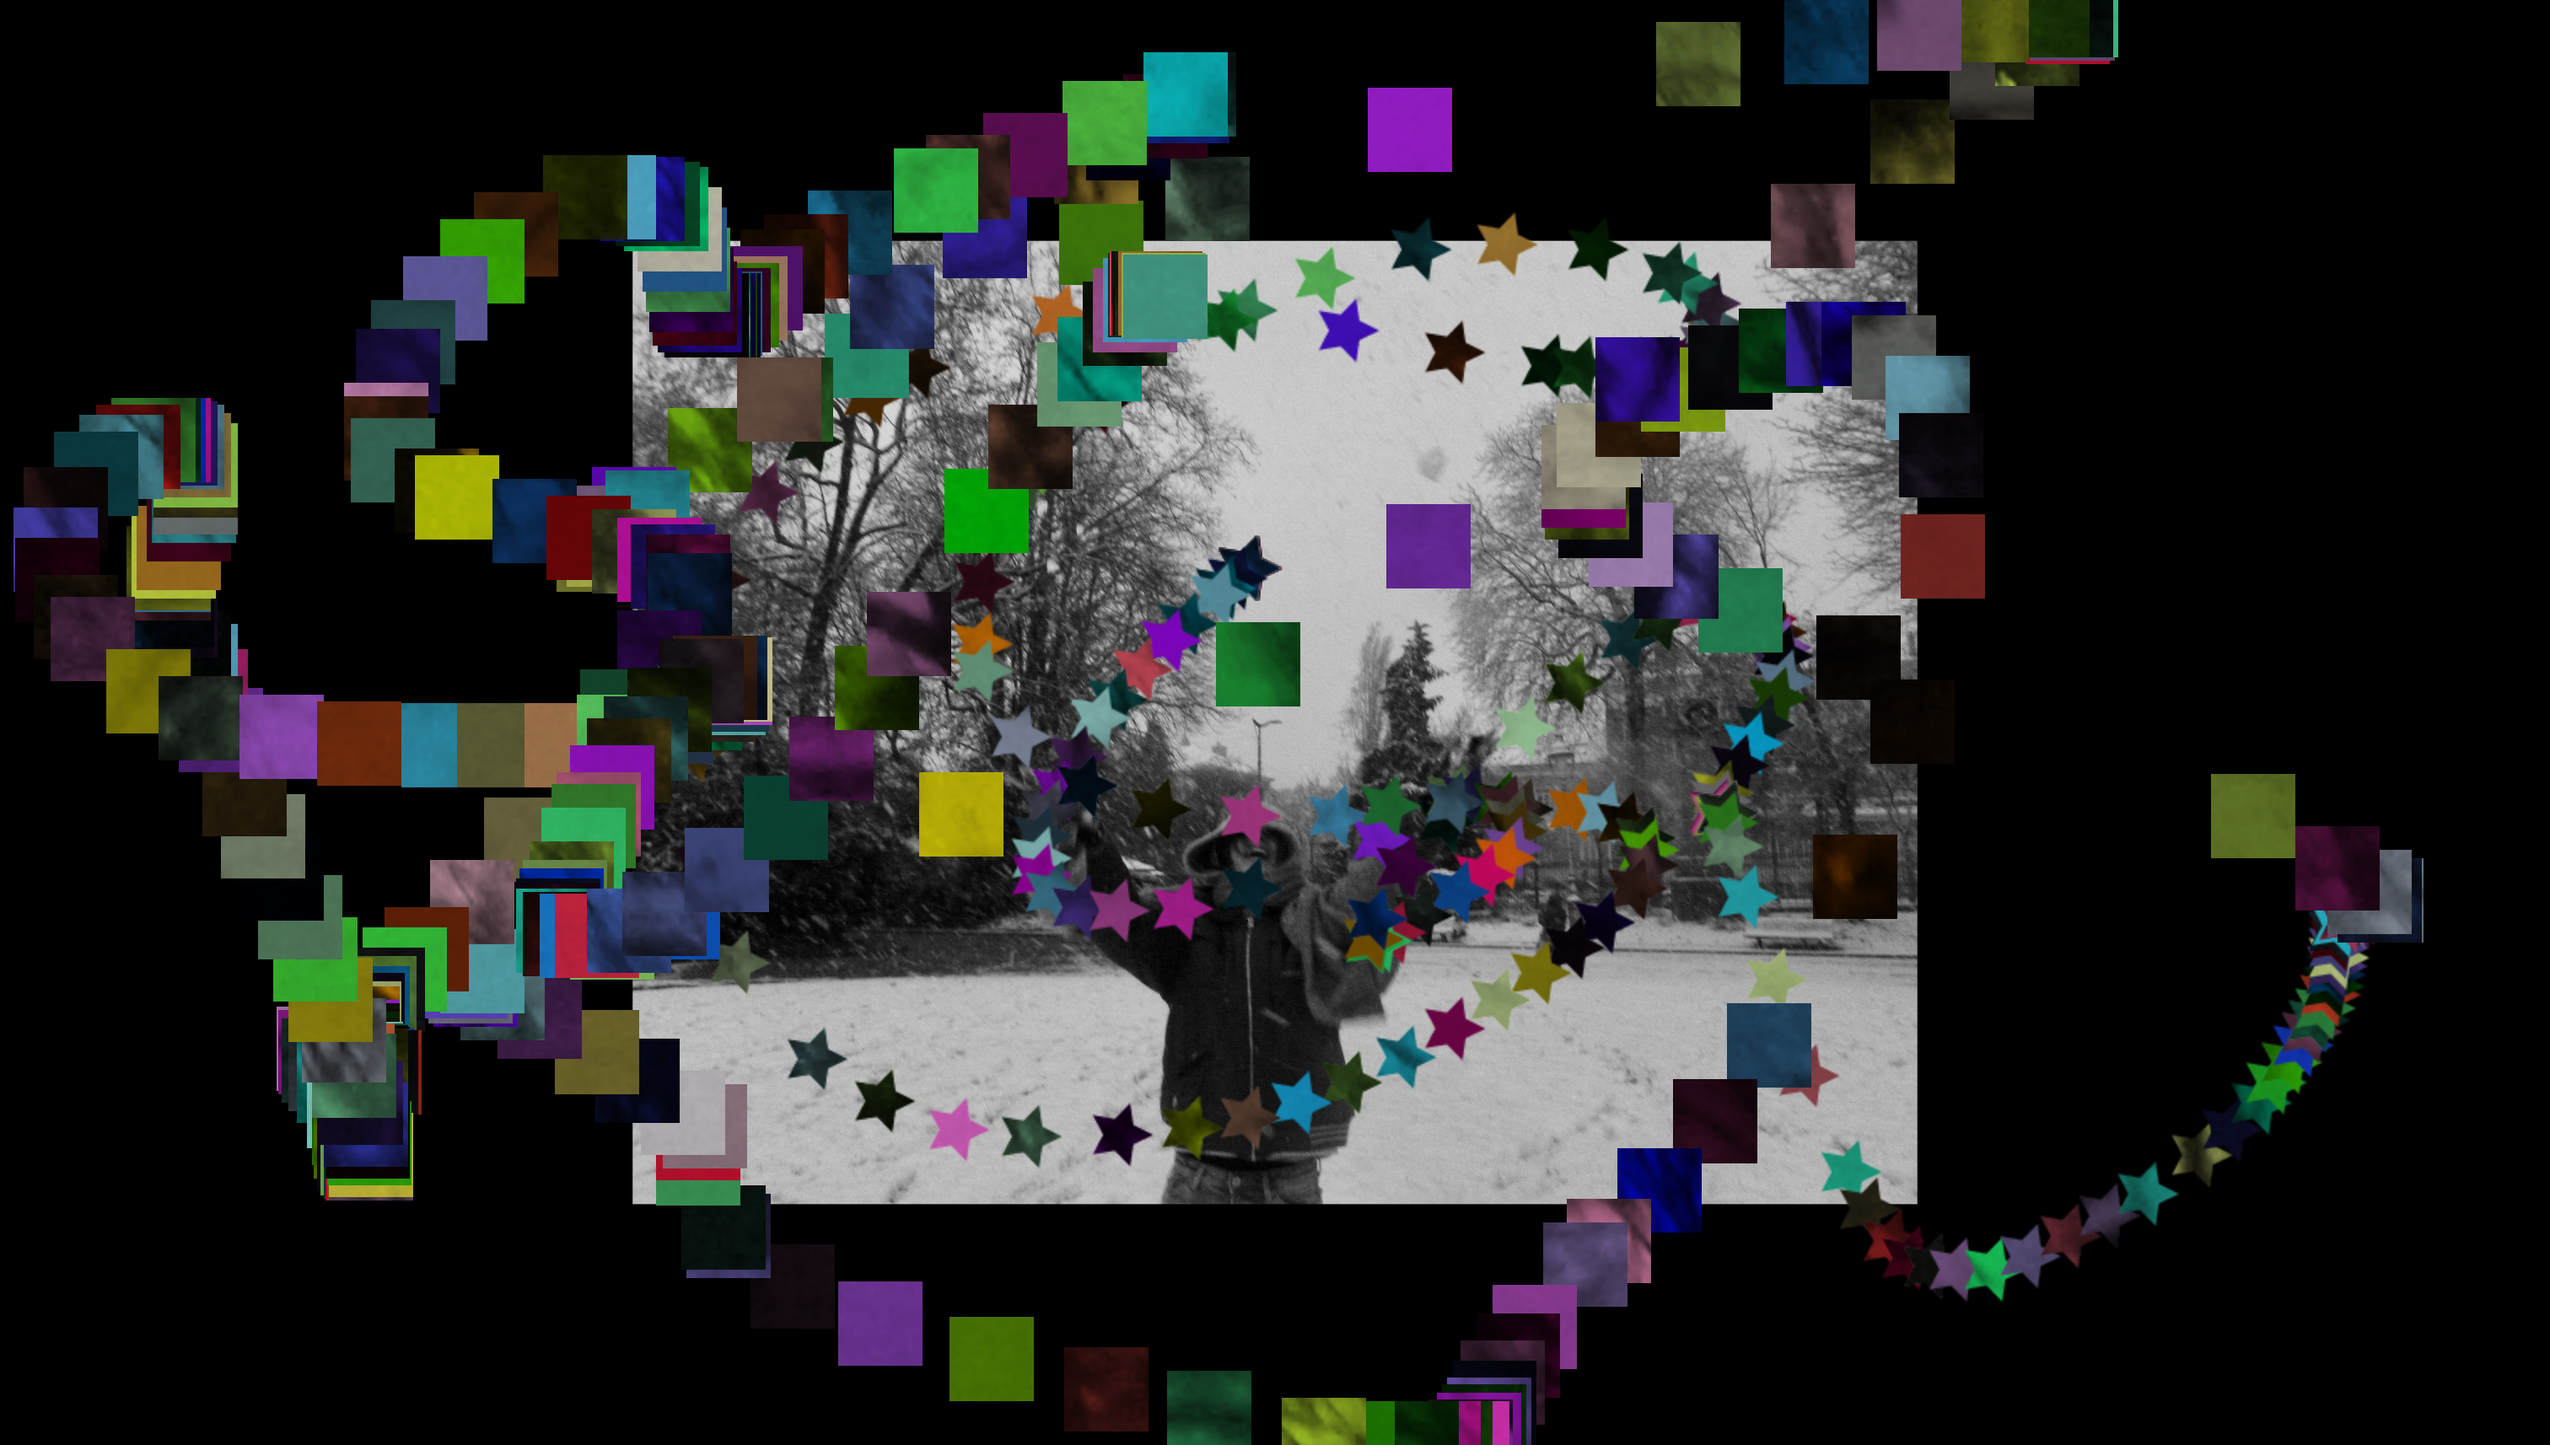
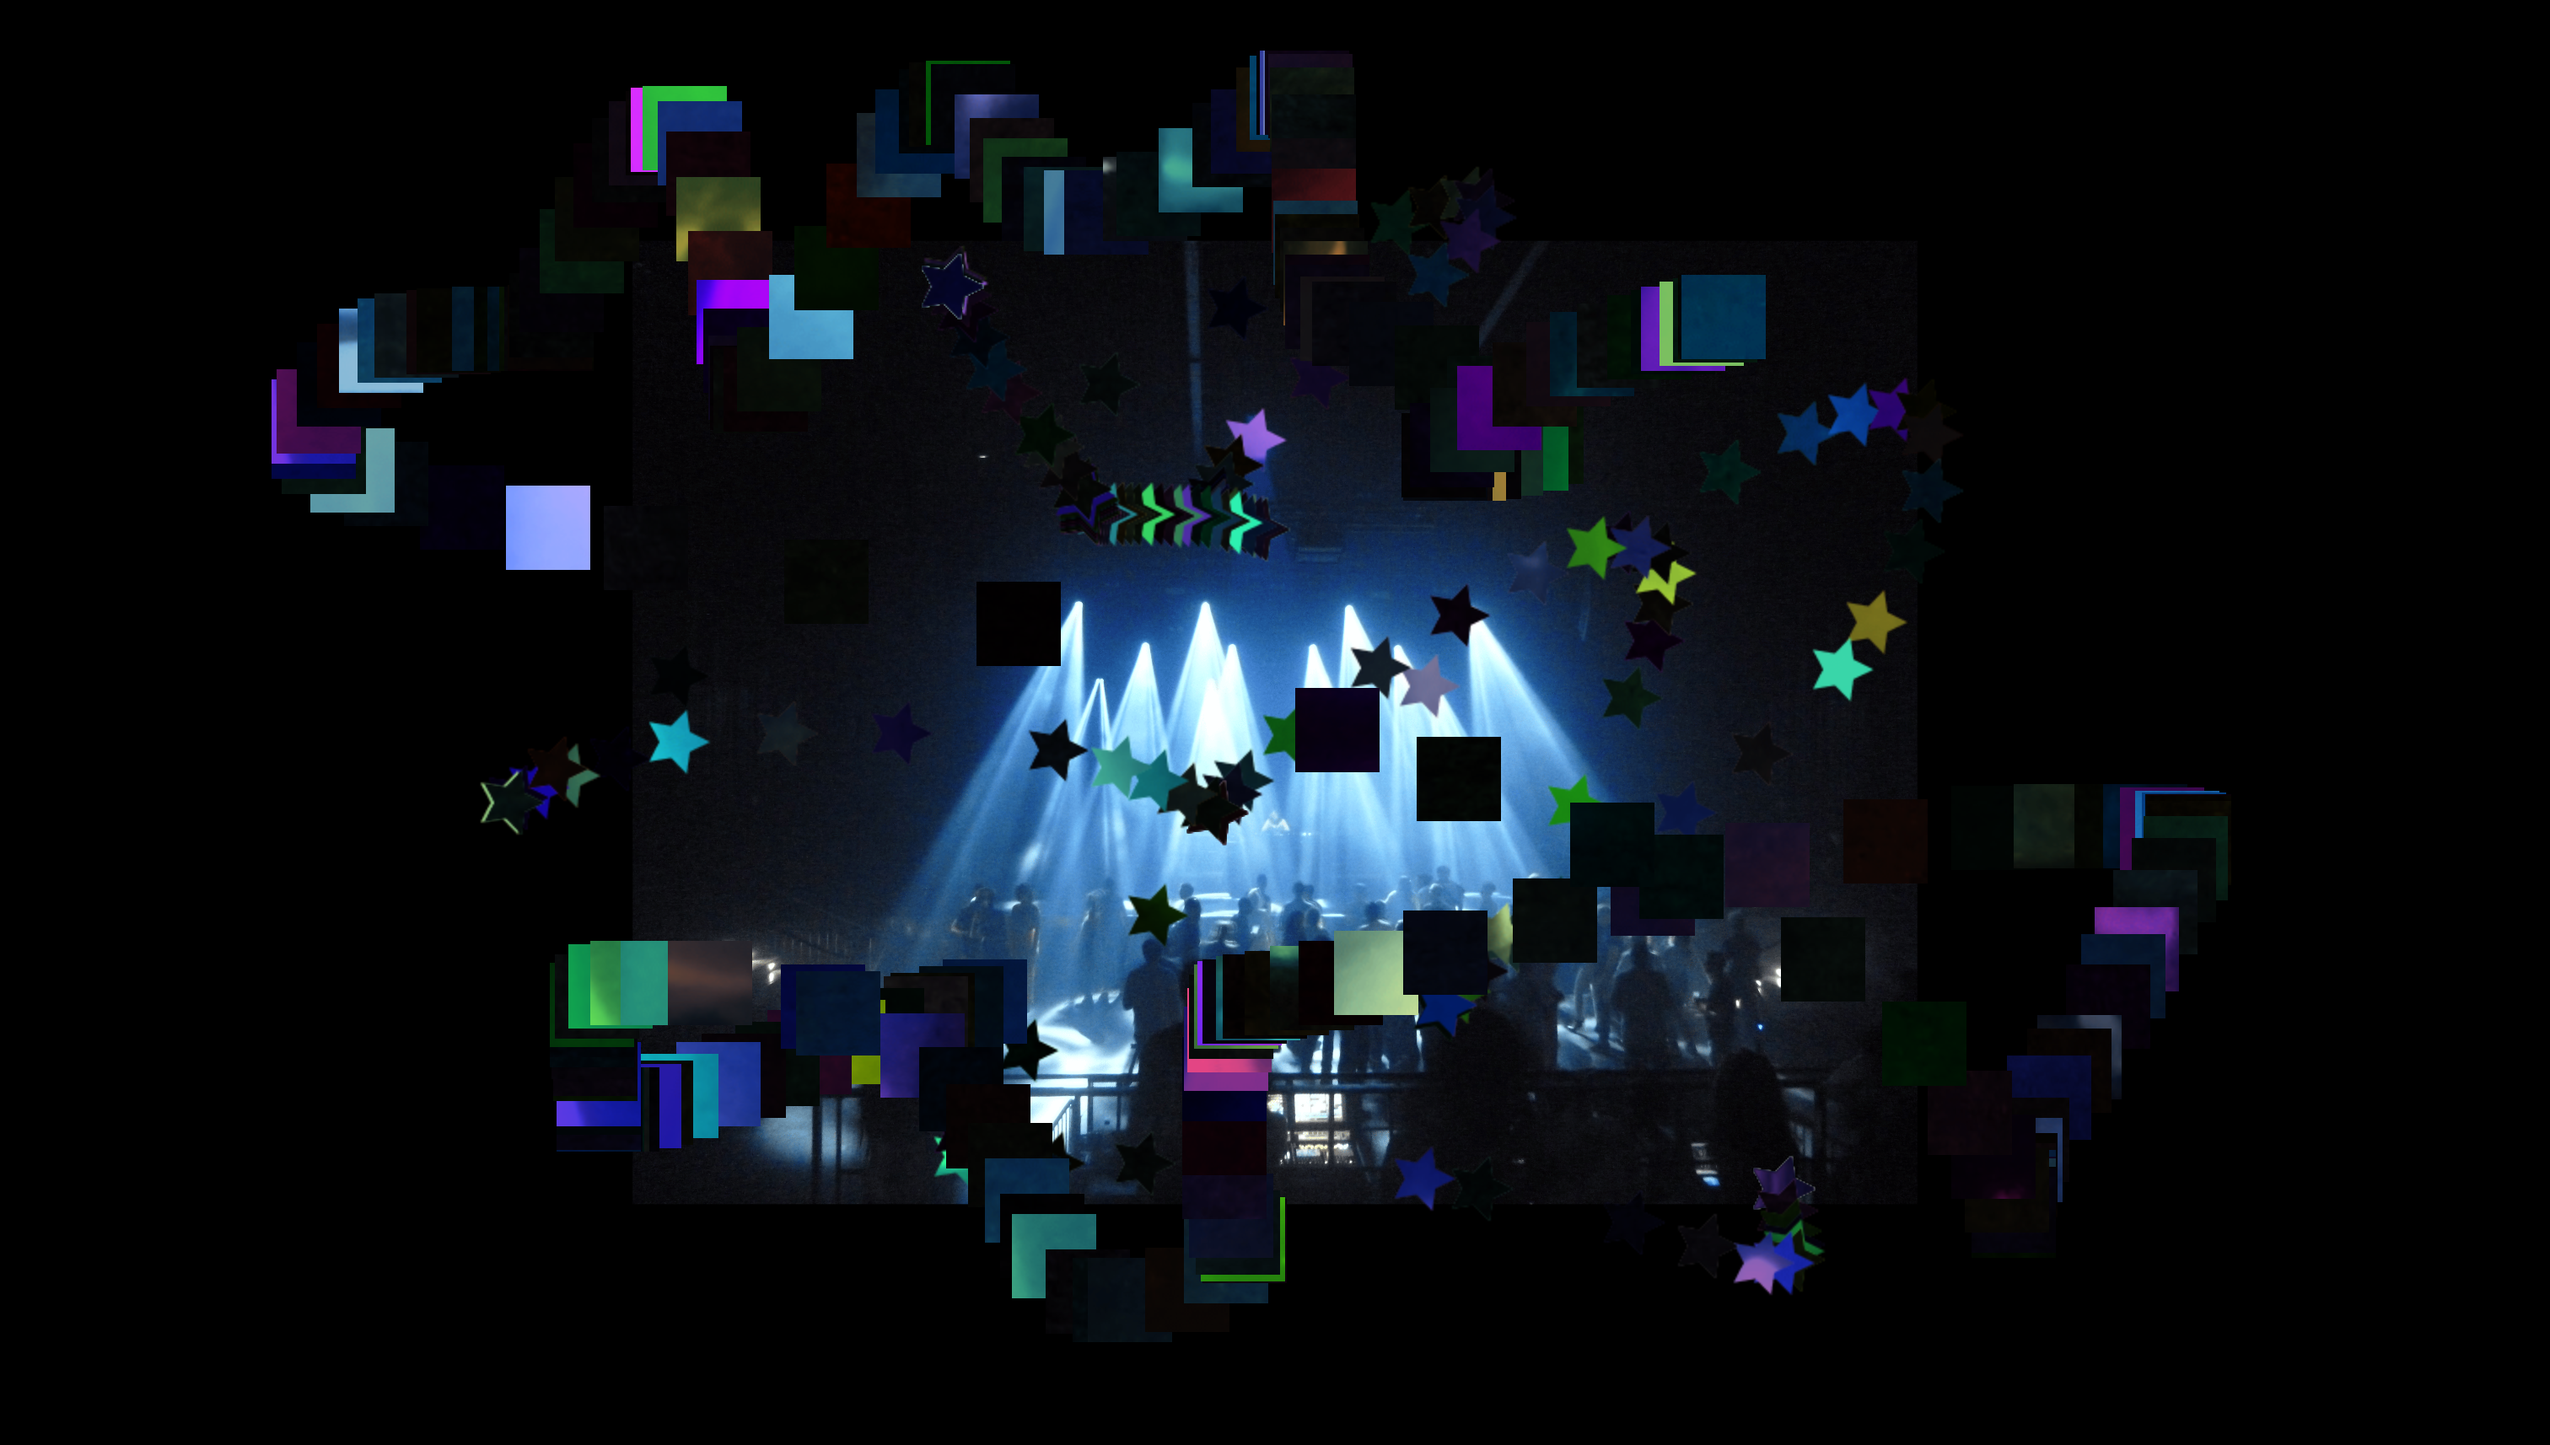
newest version with new shapes

diff --git a/procedure.js b/procedure.js
@@ -2,13 +2,16 @@ let photos = [];
 let currentImage;
 let drawing = false;
 let currentFilter = null;
-let currentDecoupe = 'square';                                              
+let currentDecoupe = 'star';         
+let currentColor = 'random'                                     ;
+
 
 function preload() {
-    for (let i = 1; i < 25; i++) {
+    for (let i = 2; i < 13; i++) {
         photos[i] = loadImage('img/photo' + i + '.png');
     }
 }
+
 
 function setup() {
     let cnv = createCanvas(windowWidth, windowHeight);
@@ -26,6 +29,7 @@ function setup() {
     instructions.style("background", "black");
     instructions.style("padding", "10px");
     instructions.style("width", "100%");
+    instructions.style("font-family", "Arial");
     instructions.position(0, 0);
 }
 
@@ -37,31 +41,43 @@ function draw() {
         let randomX = random(currentImage.width - decoupeSize);
         let randomY = random(currentImage.height - decoupeSize);
 
-
         let decoupe = currentImage.get(randomX, randomY, decoupeSize, decoupeSize);
+
 
         if (currentDecoupe) {
             if (currentDecoupe === 'star') {
                 let maskedDecoupe = createStarMask(decoupe);
-                tint(random(255), random(255), random(255));
+                if (currentColor === 'white') {
+                    tint(255);
+                } else if (currentColor === 'black') {
+                    tint(0);
+                } else if (currentColor === 'random') {
+                    tint(random(255), random(255), random(255));
+                }
                 image(maskedDecoupe, mouseX, mouseY);
-                noTint();
-            } else if (currentDecoupe === 'square') {
-                tint(random(255), random(255), random(255));
-                image(decoupe, mouseX, mouseY);
-                noTint();
+            } else if (currentDecoupe === 'heart') {
+                let maskedDecoupe = createHeartMask(decoupe);
+                if (currentColor === 'white') {
+                    tint(255, 255, 255);
+                } else if (currentColor === 'black') {
+                    tint(0);
+                } else if (currentColor === 'random') {
+                    tint(random(255), random(255), random(255));
+                }
+                image(maskedDecoupe, mouseX, mouseY);
             }
         }
-
+        noTint();
         
     }
 }
+
 
 function createStarMask(img) {
     let pg = createGraphics(img.width, img.height);
     pg.clear();
 
-    let starSize = img.width * 0.75; 
+    let starSize = img.width * 0.25; 
     let cx = img.width / 2;
     let cy = img.height / 2;
     let radius1 = starSize / 2; 
@@ -83,19 +99,45 @@ function createStarMask(img) {
     return img;
 }
 
+
+function createHeartMask(img) {
+    let pg = createGraphics(img.width, img.height);
+    pg.clear();
+
+    let size = img.width * 0.5; 
+    let cx = img.width / 2;
+    let cy = img.height / 2;
+    let topOffset = size * 0.1; 
+
+    pg.fill(255); // White mask
+    pg.noStroke();
+
+    pg.beginShape();
+    
+    // Left curve
+    pg.vertex(cx, cy + size * 0.3); 
+    pg.bezierVertex(cx - size * 0.5, cy - topOffset, cx - size * 0.3, cy - size * 0.6, cx, cy - size * 0.3);
+    
+    // Right curve
+    pg.bezierVertex(cx + size * 0.3, cy - size * 0.6, cx + size * 0.5, cy - topOffset, cx, cy + size * 0.3);
+    
+    pg.endShape(CLOSE);
+
+    img.mask(pg);
+    return img;
+}
+
+
 function mousePressed(event) {
     // Check if the click happened inside a button
     if (event.target.closest("button")) {
-        return; // Do nothing if a button was clicked
+        return; 
     }
 
     // Otherwise, proceed with showing a random image
     background(0);
     let img = random(photos);
     currentImage = img;
-
-
-
 
     let imgW = currentImage.width;
     let imgH = currentImage.height;
@@ -107,6 +149,7 @@ function mousePressed(event) {
     image(img, width / 2, height / 2, newWidth, newHeight);
     noTint();
 }
+
 
 function keyPressed() {
     if (key === 's') {

diff --git a/style.css b/style.css
@@ -25,12 +25,6 @@ body {
 
 }
 
-/* .filters:active {
-  background-color: #3e8e41;
-  box-shadow: 0 5px #666;
-  transform: translateY(4px);
-} */
-
 
 .filters:hover {
   background: red; /* Changes color when hovered */
@@ -82,6 +76,56 @@ body {
   height: 100px;
   right: 40px;
 }
+
+
+
+.colors {
+  position: fixed;
+  right: 20px;
+  top: 50px;
+  z-index: 1000; /* Makes sure they are above everything */
+  
+  width: 140px;
+  height: 140px;
+  
+  color: black;
+  background: white;
+  font-size: 14px;
+  font-weight: bold;
+  cursor: pointer;
+  text-align: center;
+
+  
+
+}
+
+.colors:hover {
+  background: red; /* Changes color when hovered */
+  transform: scale(1.1); /* Slightly increases size */
+}
+
+.colors:nth-child(1) { 
+  top: 100px; 
+  width: 70px;
+  height: 25px;
+  right: 60px;
+
+}
+
+.colors:nth-child(2) {
+  top: 150px; 
+  width: 70px;
+  height: 25px;
+  right: 60px;
+}
+
+.colors:nth-child(3) {
+  top: 200px; 
+  width: 70px;
+  height: 25px;
+  right: 60px;
+}
+
 
 canvas {
   display: block;

diff --git a/index.html b/index.html
@@ -24,8 +24,14 @@
 
     <div id="shape-buttons">
       <button type="button" class="shapes" onclick="applyShape('star')">Star</button> 
-      <button type="button" class="shapes" onclick="applyShape('square')">Square</button> 
+      <button type="button" class="shapes" onclick="applyShape('heart')">Heart</button> 
   </div>
+
+    <div id="color-buttons">
+      <button type="button" class="colors" onclick="applyColor('white')">White</button>
+      <button type="button" class="colors" onclick="applyColor('black')">Black</button>
+      <button type="button" class="colors" onclick="applyColor('random')">Random</button>
+  </div>    
 
   <script>
     function applyFilter(selectedFilter) {
@@ -60,8 +66,11 @@
         redraw();
       }
     </script>
-
-
-
+    
+    <script>
+      function applyColor(selectedColor) {
+        currentColor = selectedColor;
+      }
+    </script>
   </body>
 </html>
